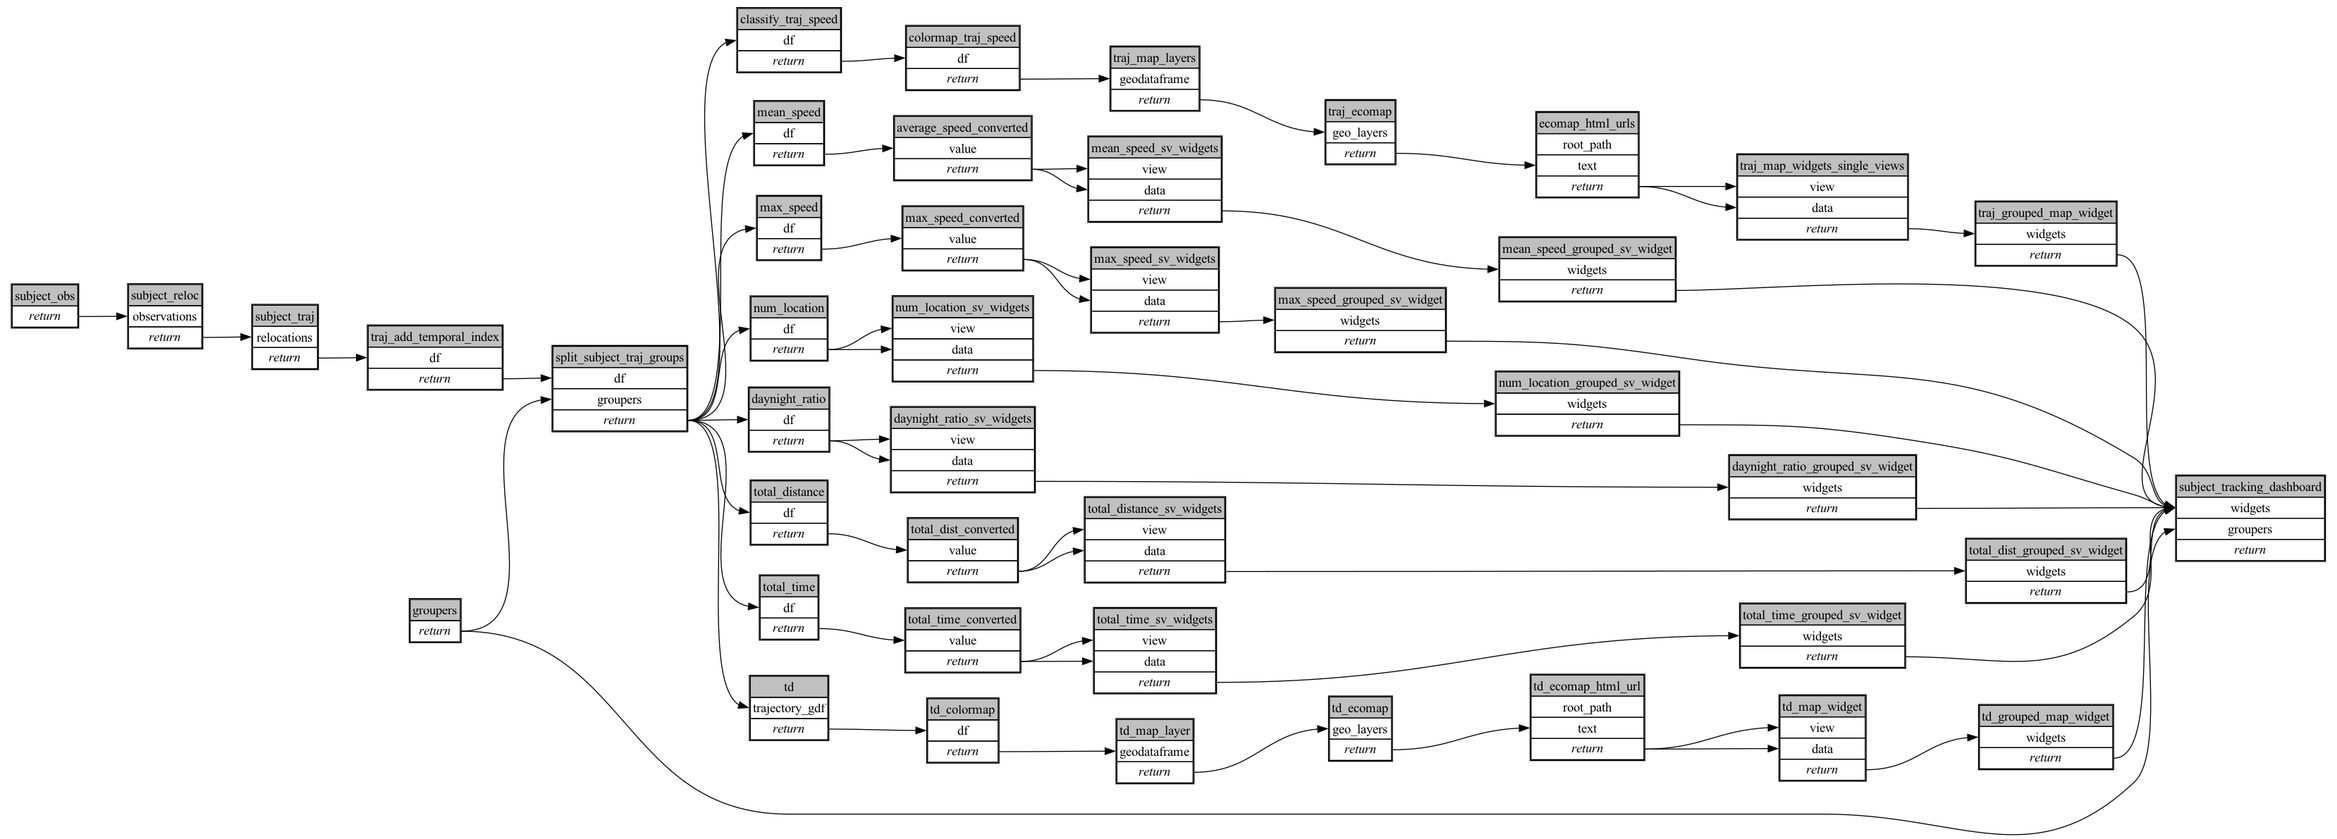
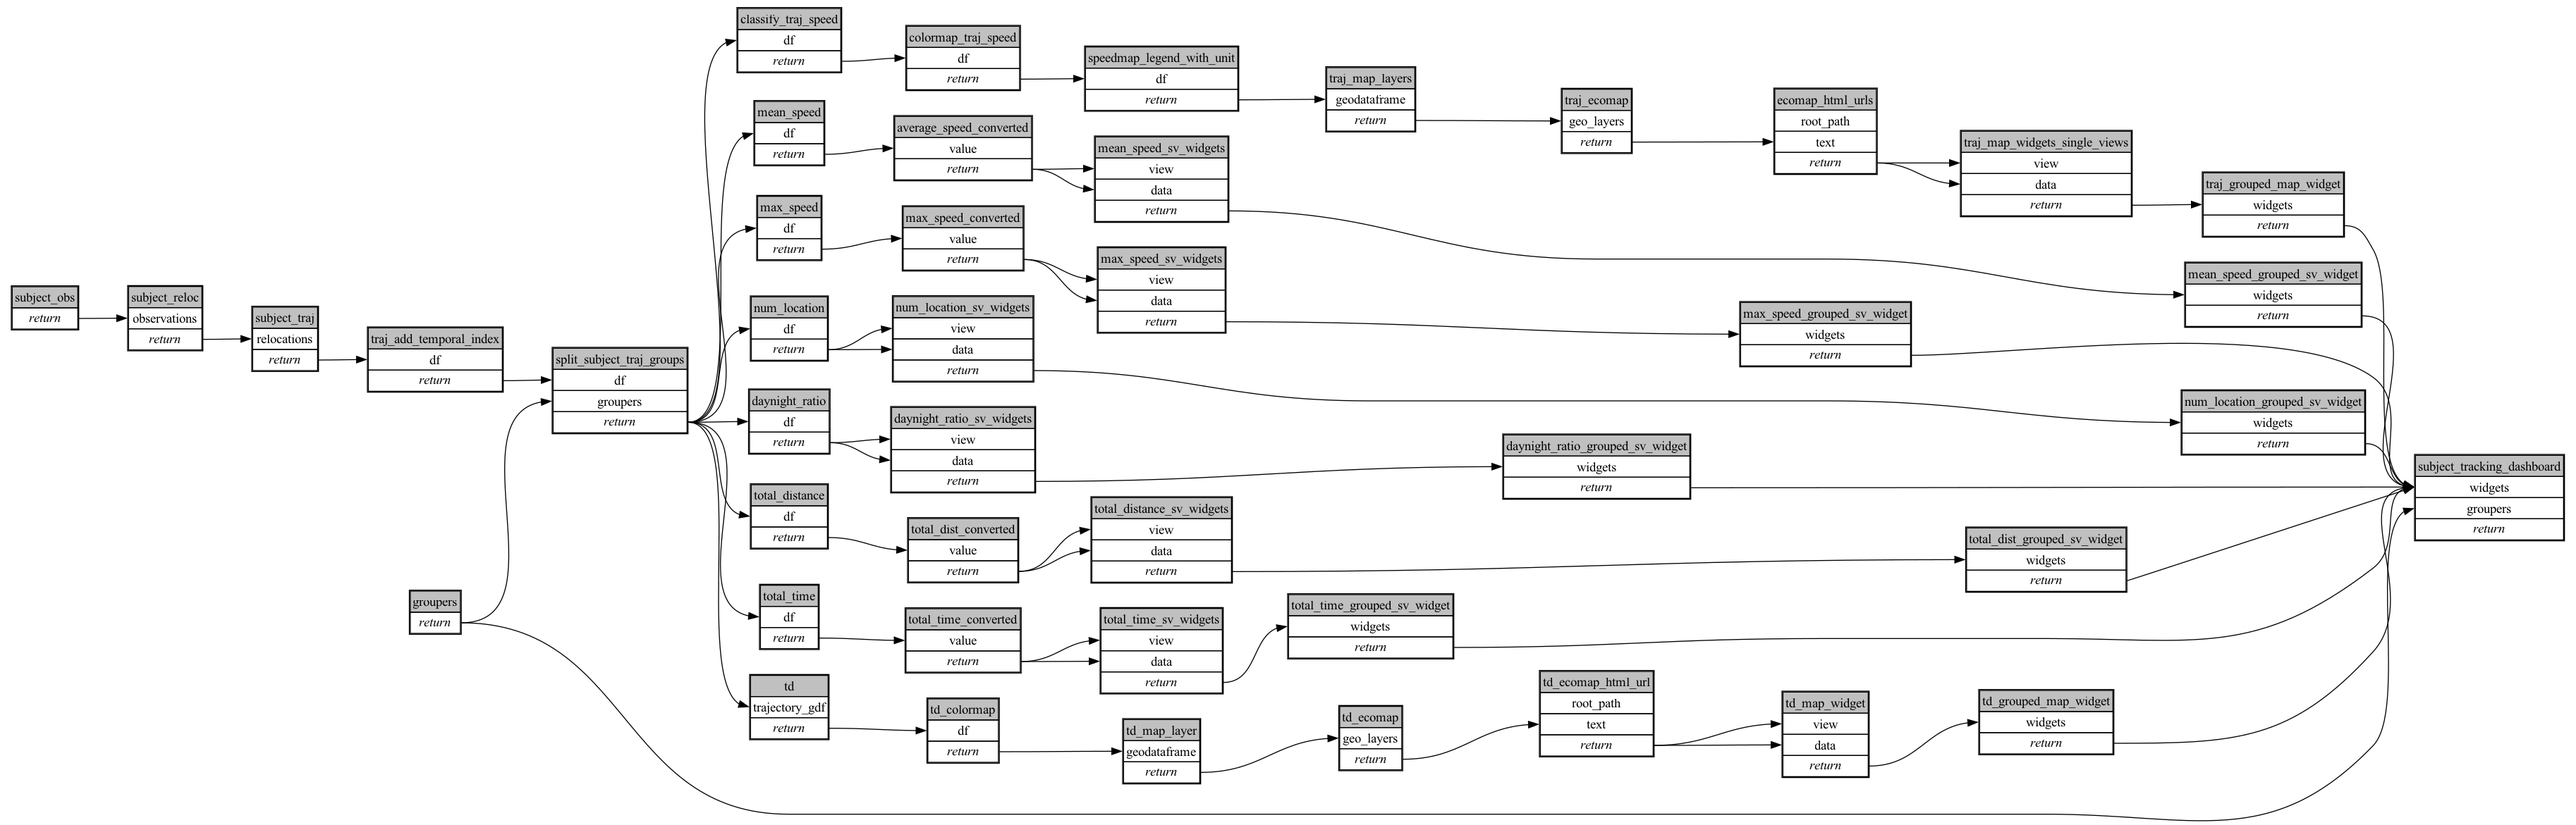
fix speedmap legend

Changed region(s): [[0.0, 0.0, 1.0, 0.953], [0.3107, 0.9838, 0.9011, 1.0], [0.1554, 0.7071, 0.2175, 0.7686]]

diff --git a/examples/subject-tracking/ecoscope-workflows-subject-tracking-workflow/ecoscope_workflows_subject_tracking_workflow/params.py b/examples/subject-tracking/ecoscope-workflows-subject-tracking-workflow/ecoscope_workflows_subject_tracking_workflow/params.py
@@ -1,6 +1,6 @@
 # [generated]
 # by = { compiler = "ecoscope-workflows-core", version = "9999" }
[2 lines of base64/hex data omitted]
 
 
 from __future__ import annotations
@@ -364,6 +364,16 @@ class StdMeanArgs(BaseModel):
     anchor: Optional[bool] = Field(False, title="Anchor")
 
 
+class Unit(str, Enum):
+    m = "m"
+    km = "km"
+    s = "s"
+    h = "h"
+    d = "d"
+    m_s = "m/s"
+    km_h = "km/h"
+
+
 class LegendDefinition(BaseModel):
     label_column: str = Field(..., title="Label Column")
     color_column: str = Field(..., title="Color Column")
@@ -496,16 +506,6 @@ class WidgetSingleView(BaseModel):
     view: Optional[List[List]] = Field(None, title="View")
 
 
-class Unit(str, Enum):
-    m = "m"
-    km = "km"
-    s = "s"
-    h = "h"
-    d = "d"
-    m_s = "m/s"
-    km_h = "km/h"
-
-
 class Quantity(BaseModel):
     value: Union[int, float] = Field(..., title="Value")
     unit: Optional[Unit] = None
@@ -563,6 +563,29 @@ class ClassifyTrajSpeed(BaseModel):
             FisherJenksArgs,
         ]
     ] = Field({"k": 5}, title="Classification Options")
+
+
+class SpeedmapLegendWithUnit(BaseModel):
+    model_config = ConfigDict(
+        extra="forbid",
+    )
+    input_column_name: str = Field(
+        ..., description="The column name to map.", title="Input Column Name"
+    )
+    output_column_name: str = Field(
+        ..., description="The new column name.", title="Output Column Name"
+    )
+    original_unit: Optional[Unit] = Field(
+        None, description="The original unit of measurement.", title="Original Unit"
+    )
+    new_unit: Optional[Unit] = Field(
+        None, description="The unit to convert to.", title="New Unit"
+    )
+    decimal_places: Optional[int] = Field(
+        1,
+        description="The number of decimal places to display.",
+        title="Decimal Places",
+    )
 
 
 class TrajMapLayers(BaseModel):
@@ -721,6 +744,9 @@ class Params(BaseModel):
     )
     colormap_traj_speed: Optional[ColormapTrajSpeed] = Field(
         None, title="Apply Color to Trajectories By Speed"
+    )
+    speedmap_legend_with_unit: Optional[SpeedmapLegendWithUnit] = Field(
+        None, title="Format Speedmap Legend Label"
     )
     traj_map_layers: Optional[TrajMapLayers] = Field(
         None, title="Create map layer for each trajectory group"

diff --git a/examples/subject-tracking/ecoscope-workflows-subject-tracking-workflow/ecoscope_workflows_subject_tracking_workflow/dags/run_async.py b/examples/subject-tracking/ecoscope-workflows-subject-tracking-workflow/ecoscope_workflows_subject_tracking_workflow/dags/run_async.py
@@ -1,6 +1,6 @@
 # [generated]
 # by = { compiler = "ecoscope-workflows-core", version = "9999" }
[2 lines of base64/hex data omitted]
 import json
 import os
 
@@ -16,6 +16,7 @@ from ecoscope_workflows_core.tasks.transformation import add_temporal_index
 from ecoscope_workflows_core.tasks.groupby import split_groups
 from ecoscope_workflows_ext_ecoscope.tasks.transformation import apply_classification
 from ecoscope_workflows_ext_ecoscope.tasks.transformation import apply_color_map
+from ecoscope_workflows_core.tasks.transformation import map_values_with_unit
 from ecoscope_workflows_ext_ecoscope.tasks.results import create_map_layer
 from ecoscope_workflows_ext_ecoscope.tasks.results import draw_ecomap
 from ecoscope_workflows_core.tasks.io import persist_text
@@ -46,7 +47,8 @@ def main(params: Params):
         "split_subject_traj_groups": ["traj_add_temporal_index", "groupers"],
         "classify_traj_speed": ["split_subject_traj_groups"],
         "colormap_traj_speed": ["classify_traj_speed"],
-        "traj_map_layers": ["colormap_traj_speed"],
+        "speedmap_legend_with_unit": ["colormap_traj_speed"],
+        "traj_map_layers": ["speedmap_legend_with_unit"],
         "traj_ecomap": ["traj_map_layers"],
         "ecomap_html_urls": ["traj_ecomap"],
         "traj_map_widgets_single_views": ["ecomap_html_urls"],
@@ -155,13 +157,22 @@ def main(params: Params):
                 "argvalues": DependsOn("classify_traj_speed"),
             },
         ),
+        "speedmap_legend_with_unit": Node(
+            async_task=map_values_with_unit.validate().set_executor("lithops"),
+            partial=params_dict["speedmap_legend_with_unit"],
+            method="mapvalues",
+            kwargs={
+                "argnames": ["df"],
+                "argvalues": DependsOn("colormap_traj_speed"),
+            },
+        ),
         "traj_map_layers": Node(
             async_task=create_map_layer.validate().set_executor("lithops"),
             partial=params_dict["traj_map_layers"],
             method="mapvalues",
             kwargs={
                 "argnames": ["geodataframe"],
-                "argvalues": DependsOn("colormap_traj_speed"),
+                "argvalues": DependsOn("speedmap_legend_with_unit"),
             },
         ),
         "traj_ecomap": Node(

diff --git a/examples/subject-tracking/ecoscope-workflows-subject-tracking-workflow/ecoscope_workflows_subject_tracking_workflow/dags/run_async_mock_io.py b/examples/subject-tracking/ecoscope-workflows-subject-tracking-workflow/ecoscope_workflows_subject_tracking_workflow/dags/run_async_mock_io.py
@@ -1,6 +1,6 @@
 # [generated]
 # by = { compiler = "ecoscope-workflows-core", version = "9999" }
[2 lines of base64/hex data omitted]
 
 # ruff: noqa: E402
 
@@ -31,6 +31,7 @@ from ecoscope_workflows_core.tasks.transformation import add_temporal_index
 from ecoscope_workflows_core.tasks.groupby import split_groups
 from ecoscope_workflows_ext_ecoscope.tasks.transformation import apply_classification
 from ecoscope_workflows_ext_ecoscope.tasks.transformation import apply_color_map
+from ecoscope_workflows_core.tasks.transformation import map_values_with_unit
 from ecoscope_workflows_ext_ecoscope.tasks.results import create_map_layer
 from ecoscope_workflows_ext_ecoscope.tasks.results import draw_ecomap
 from ecoscope_workflows_core.tasks.io import persist_text
@@ -63,7 +64,8 @@ def main(params: Params):
         "split_subject_traj_groups": ["traj_add_temporal_index", "groupers"],
         "classify_traj_speed": ["split_subject_traj_groups"],
         "colormap_traj_speed": ["classify_traj_speed"],
-        "traj_map_layers": ["colormap_traj_speed"],
+        "speedmap_legend_with_unit": ["colormap_traj_speed"],
+        "traj_map_layers": ["speedmap_legend_with_unit"],
         "traj_ecomap": ["traj_map_layers"],
         "ecomap_html_urls": ["traj_ecomap"],
         "traj_map_widgets_single_views": ["ecomap_html_urls"],
@@ -172,13 +174,22 @@ def main(params: Params):
                 "argvalues": DependsOn("classify_traj_speed"),
             },
         ),
+        "speedmap_legend_with_unit": Node(
+            async_task=map_values_with_unit.validate().set_executor("lithops"),
+            partial=params_dict["speedmap_legend_with_unit"],
+            method="mapvalues",
+            kwargs={
+                "argnames": ["df"],
+                "argvalues": DependsOn("colormap_traj_speed"),
+            },
+        ),
         "traj_map_layers": Node(
             async_task=create_map_layer.validate().set_executor("lithops"),
             partial=params_dict["traj_map_layers"],
             method="mapvalues",
             kwargs={
                 "argnames": ["geodataframe"],
-                "argvalues": DependsOn("colormap_traj_speed"),
+                "argvalues": DependsOn("speedmap_legend_with_unit"),
             },
         ),
         "traj_ecomap": Node(

diff --git a/examples/subject-tracking/ecoscope-workflows-subject-tracking-workflow/ecoscope_workflows_subject_tracking_workflow/dags/jupytext.py b/examples/subject-tracking/ecoscope-workflows-subject-tracking-workflow/ecoscope_workflows_subject_tracking_workflow/dags/jupytext.py
@@ -1,6 +1,6 @@
 # [generated]
 # by = { compiler = "ecoscope-workflows-core", version = "9999" }
[2 lines of base64/hex data omitted]
 
 
 # ruff: noqa: E402
@@ -23,6 +23,7 @@ from ecoscope_workflows_core.tasks.transformation import add_temporal_index
 from ecoscope_workflows_core.tasks.groupby import split_groups
 from ecoscope_workflows_ext_ecoscope.tasks.transformation import apply_classification
 from ecoscope_workflows_ext_ecoscope.tasks.transformation import apply_color_map
+from ecoscope_workflows_core.tasks.transformation import map_values_with_unit
 from ecoscope_workflows_ext_ecoscope.tasks.results import create_map_layer
 from ecoscope_workflows_ext_ecoscope.tasks.results import draw_ecomap
 from ecoscope_workflows_core.tasks.io import persist_text
@@ -204,6 +205,29 @@ colormap_traj_speed = apply_color_map.partial(**colormap_traj_speed_params).mapv
 
 
 # %% [markdown]
+# ## Format Speedmap Legend Label
+
+# %%
+# parameters
+
+speedmap_legend_with_unit_params = dict(
+    input_column_name=...,
+    output_column_name=...,
+    original_unit=...,
+    new_unit=...,
+    decimal_places=...,
+)
+
+# %%
+# call the task
+
+
+speedmap_legend_with_unit = map_values_with_unit.partial(
+    **speedmap_legend_with_unit_params
+).mapvalues(argnames=["df"], argvalues=colormap_traj_speed)
+
+
+# %% [markdown]
 # ## Create map layer for each trajectory group
 
 # %%
@@ -219,7 +243,7 @@ traj_map_layers_params = dict(
 
 
 traj_map_layers = create_map_layer.partial(**traj_map_layers_params).mapvalues(
-    argnames=["geodataframe"], argvalues=colormap_traj_speed
+    argnames=["geodataframe"], argvalues=speedmap_legend_with_unit
 )
 
 

diff --git a/examples/subject-tracking/ecoscope-workflows-subject-tracking-workflow/ecoscope_workflows_subject_tracking_workflow/dags/run_sequential.py b/examples/subject-tracking/ecoscope-workflows-subject-tracking-workflow/ecoscope_workflows_subject_tracking_workflow/dags/run_sequential.py
@@ -1,6 +1,6 @@
 # [generated]
 # by = { compiler = "ecoscope-workflows-core", version = "9999" }
[2 lines of base64/hex data omitted]
 import json
 import os
 
@@ -14,6 +14,7 @@ from ecoscope_workflows_core.tasks.transformation import add_temporal_index
 from ecoscope_workflows_core.tasks.groupby import split_groups
 from ecoscope_workflows_ext_ecoscope.tasks.transformation import apply_classification
 from ecoscope_workflows_ext_ecoscope.tasks.transformation import apply_color_map
+from ecoscope_workflows_core.tasks.transformation import map_values_with_unit
 from ecoscope_workflows_ext_ecoscope.tasks.results import create_map_layer
 from ecoscope_workflows_ext_ecoscope.tasks.results import draw_ecomap
 from ecoscope_workflows_core.tasks.io import persist_text
@@ -83,10 +84,16 @@ def main(params: Params):
         .mapvalues(argnames=["df"], argvalues=classify_traj_speed)
     )
 
+    speedmap_legend_with_unit = (
+        map_values_with_unit.validate()
+        .partial(**params_dict["speedmap_legend_with_unit"])
+        .mapvalues(argnames=["df"], argvalues=colormap_traj_speed)
+    )
+
     traj_map_layers = (
         create_map_layer.validate()
         .partial(**params_dict["traj_map_layers"])
-        .mapvalues(argnames=["geodataframe"], argvalues=colormap_traj_speed)
+        .mapvalues(argnames=["geodataframe"], argvalues=speedmap_legend_with_unit)
     )
 
     traj_ecomap = (

diff --git a/examples/subject-tracking/ecoscope-workflows-subject-tracking-workflow/ecoscope_workflows_subject_tracking_workflow/dags/run_sequential_mock_io.py b/examples/subject-tracking/ecoscope-workflows-subject-tracking-workflow/ecoscope_workflows_subject_tracking_workflow/dags/run_sequential_mock_io.py
@@ -1,6 +1,6 @@
 # [generated]
 # by = { compiler = "ecoscope-workflows-core", version = "9999" }
[2 lines of base64/hex data omitted]
 
 # ruff: noqa: E402
 
@@ -29,6 +29,7 @@ from ecoscope_workflows_core.tasks.transformation import add_temporal_index
 from ecoscope_workflows_core.tasks.groupby import split_groups
 from ecoscope_workflows_ext_ecoscope.tasks.transformation import apply_classification
 from ecoscope_workflows_ext_ecoscope.tasks.transformation import apply_color_map
+from ecoscope_workflows_core.tasks.transformation import map_values_with_unit
 from ecoscope_workflows_ext_ecoscope.tasks.results import create_map_layer
 from ecoscope_workflows_ext_ecoscope.tasks.results import draw_ecomap
 from ecoscope_workflows_core.tasks.io import persist_text
@@ -100,10 +101,16 @@ def main(params: Params):
         .mapvalues(argnames=["df"], argvalues=classify_traj_speed)
     )
 
+    speedmap_legend_with_unit = (
+        map_values_with_unit.validate()
+        .partial(**params_dict["speedmap_legend_with_unit"])
+        .mapvalues(argnames=["df"], argvalues=colormap_traj_speed)
+    )
+
     traj_map_layers = (
         create_map_layer.validate()
         .partial(**params_dict["traj_map_layers"])
-        .mapvalues(argnames=["geodataframe"], argvalues=colormap_traj_speed)
+        .mapvalues(argnames=["geodataframe"], argvalues=speedmap_legend_with_unit)
     )
 
     traj_ecomap = (

diff --git a/src/ecoscope-workflows-core/ecoscope_workflows_core/tasks/transformation/_mapping.py b/src/ecoscope-workflows-core/ecoscope_workflows_core/tasks/transformation/_mapping.py
@@ -2,9 +2,11 @@ import logging
 from typing import Annotated, cast
 
 from pydantic import Field
+from pydantic.json_schema import SkipJsonSchema
 
 from ecoscope_workflows_core.annotations import AnyDataFrame
 from ecoscope_workflows_core.decorators import task
+from ecoscope_workflows_core.tasks.transformation._unit import Unit, with_unit
 
 logger = logging.getLogger(__name__)
 
@@ -26,6 +28,31 @@ def map_values(
     else:
         df[column_name] = df[column_name].map(value_map)
     return cast(AnyDataFrame, df)
+
+
+@task
+def map_values_with_unit(
+    df: AnyDataFrame,
+    input_column_name: Annotated[str, Field(description="The column name to map.")],
+    output_column_name: Annotated[str, Field(description="The new column name.")],
+    original_unit: Annotated[
+        Unit | SkipJsonSchema[None],
+        Field(description="The original unit of measurement."),
+    ] = None,
+    new_unit: Annotated[
+        Unit | SkipJsonSchema[None],
+        Field(description="The unit to convert to."),
+    ] = None,
+    decimal_places: Annotated[
+        int, Field(description="The number of decimal places to display.")
+    ] = 1,
+) -> AnyDataFrame:
+    def format_with_unit(x):
+        data = with_unit(x, original_unit=original_unit, new_unit=new_unit)
+        return f"{data.value:.{decimal_places}f} {data.unit or ''}".strip()
+
+    df[output_column_name] = df[input_column_name].apply(format_with_unit)
+    return df
 
 
 @task

diff --git a/examples/subject-tracking/ecoscope-workflows-subject-tracking-workflow/ecoscope_workflows_subject_tracking_workflow/cli.py b/examples/subject-tracking/ecoscope-workflows-subject-tracking-workflow/ecoscope_workflows_subject_tracking_workflow/cli.py
@@ -1,6 +1,6 @@
 # [generated]
 # by = { compiler = "ecoscope-workflows-core", version = "9999" }
[2 lines of base64/hex data omitted]
 
 
 from io import TextIOWrapper
@@ -8,8 +8,8 @@ from io import TextIOWrapper
 import click
 import ruamel.yaml
 
-from .dispatch import dispatch
-from .params import Params
+from ecoscope_workflows_subject_tracking_workflow.dispatch import dispatch
+from ecoscope_workflows_subject_tracking_workflow.params import Params
 
 
 @click.command()

diff --git a/src/ecoscope-workflows-core/ecoscope_workflows_core/tasks/transformation/__init__.py b/src/ecoscope-workflows-core/ecoscope_workflows_core/tasks/transformation/__init__.py
@@ -1,6 +1,6 @@
 from ._exploding import explode
 from ._indexing import add_temporal_index
-from ._mapping import map_columns, map_values
+from ._mapping import map_columns, map_values, map_values_with_unit
 from ._sorting import sort_values
 from ._unit import with_unit
 
@@ -12,4 +12,5 @@ __all__ = [
     "apply_color_map",
     "sort_values",
     "with_unit",
+    "map_values_with_unit",
 ]

diff --git a/examples/subject-tracking/ecoscope-workflows-subject-tracking-workflow/ecoscope_workflows_subject_tracking_workflow/dags/__init__.py b/examples/subject-tracking/ecoscope-workflows-subject-tracking-workflow/ecoscope_workflows_subject_tracking_workflow/dags/__init__.py
@@ -1,6 +1,6 @@
 # [generated]
 # by = { compiler = "ecoscope-workflows-core", version = "9999" }
[2 lines of base64/hex data omitted]
 
 
 from .run_async import main as run_async

diff --git a/examples/subject-tracking/ecoscope-workflows-subject-tracking-workflow/tests/conftest.py b/examples/subject-tracking/ecoscope-workflows-subject-tracking-workflow/tests/conftest.py
@@ -1,6 +1,6 @@
 # [generated]
 # by = { compiler = "ecoscope-workflows-core", version = "9999" }
[2 lines of base64/hex data omitted]
 
 
 from pathlib import Path

diff --git a/examples/subject-tracking/ecoscope-workflows-subject-tracking-workflow/tests/test_app.py b/examples/subject-tracking/ecoscope-workflows-subject-tracking-workflow/tests/test_app.py
@@ -1,6 +1,6 @@
 # [generated]
 # by = { compiler = "ecoscope-workflows-core", version = "9999" }
[2 lines of base64/hex data omitted]
 
 
 from pathlib import Path
